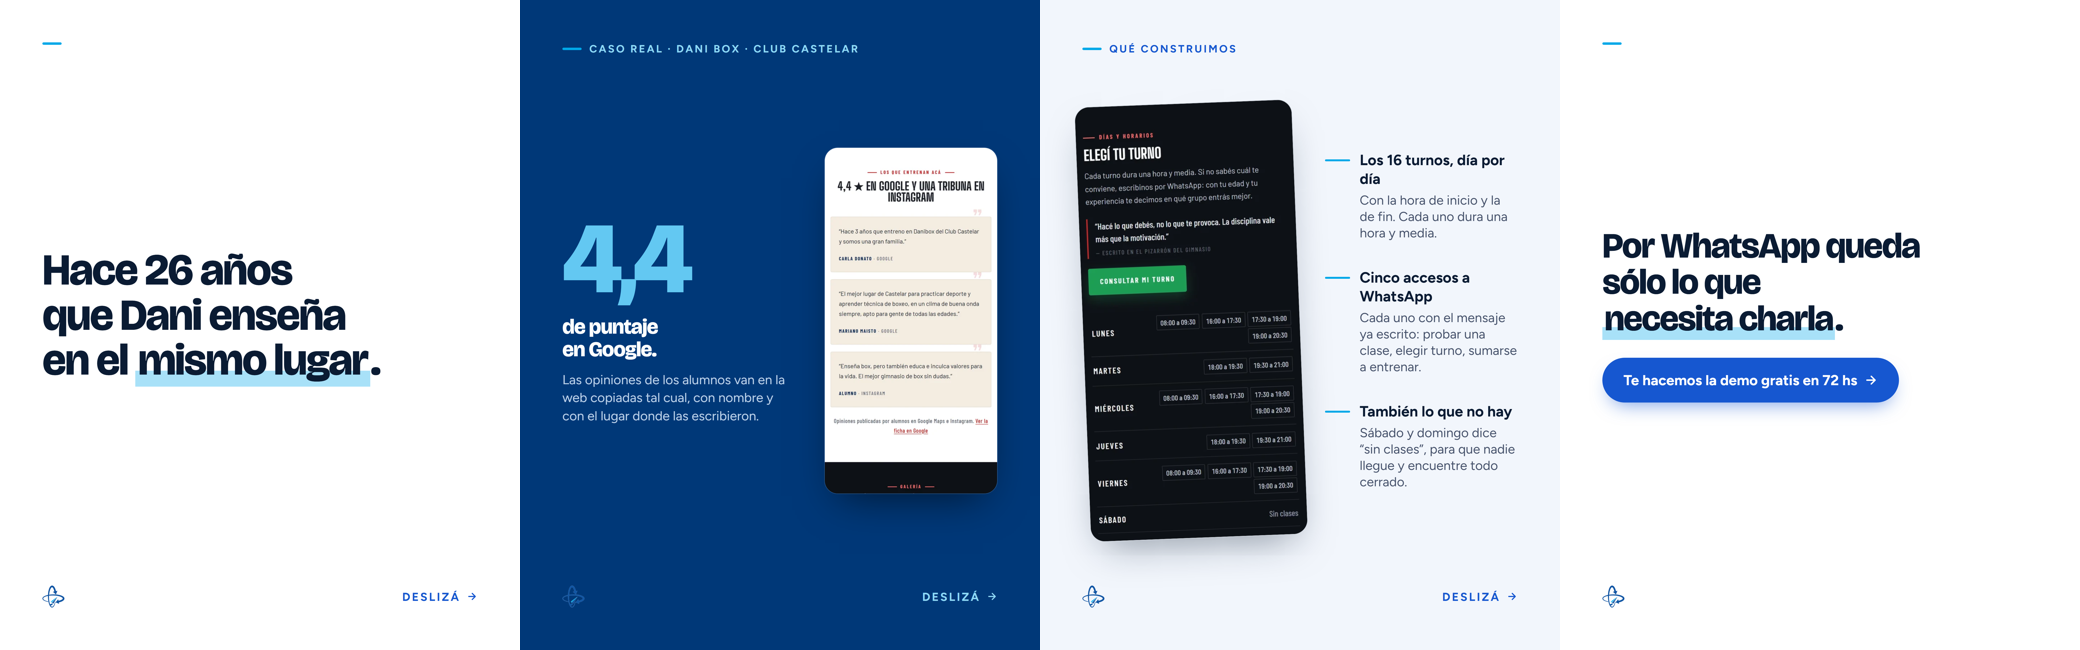
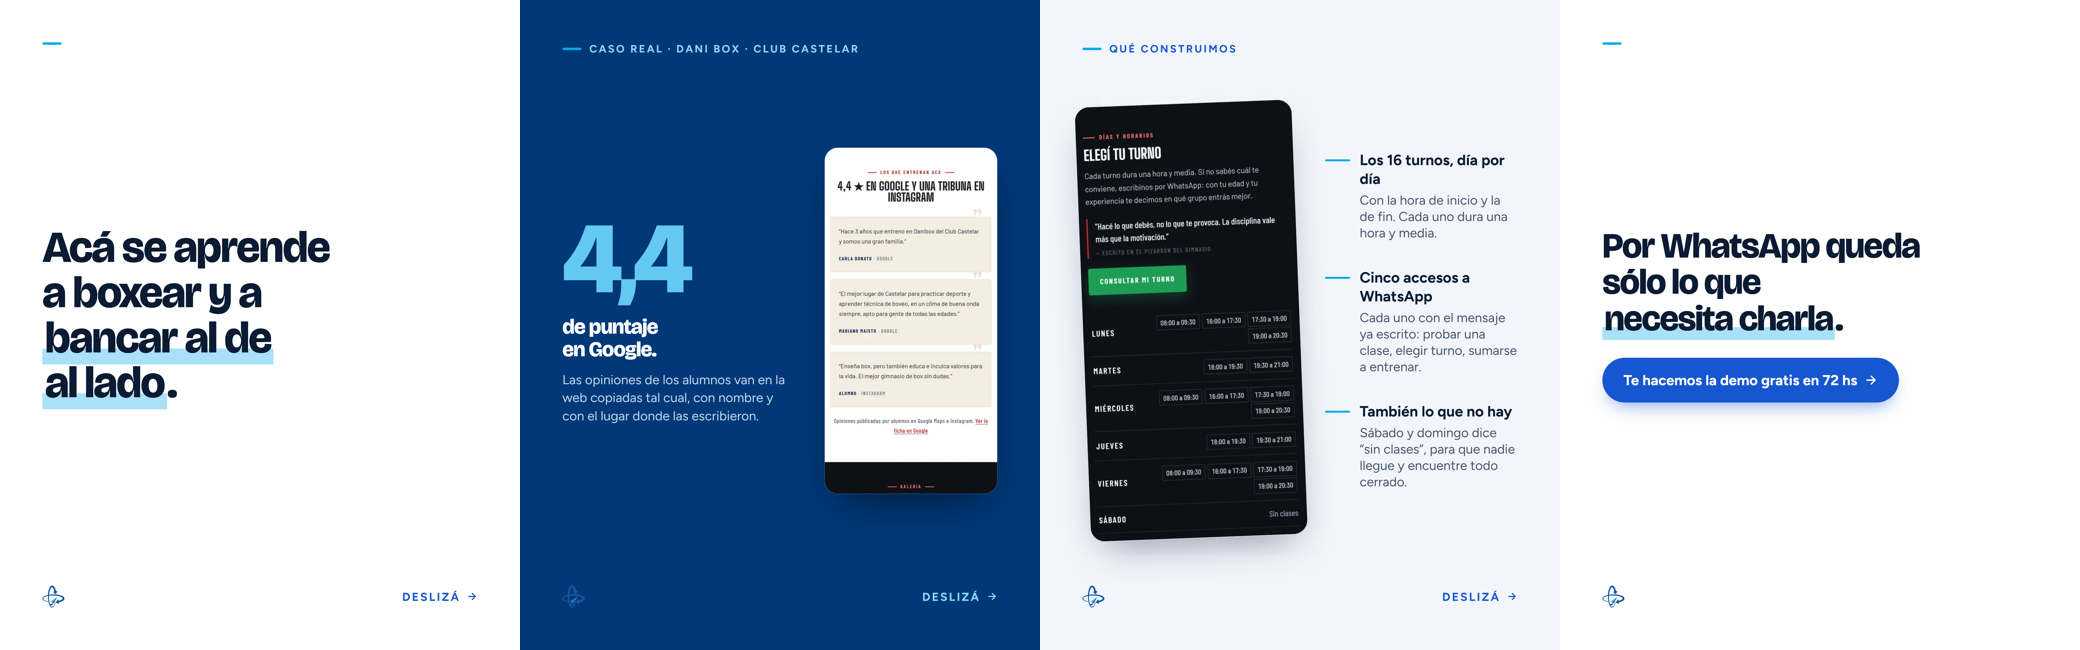
Hook: el titular del hero de la web de Dani BOX
"Aca se aprende a boxear y a bancar al de al lado". Los anos vuelven a
25, como dice el sitio, hasta que Dani confirme.

Changed region(s): [[0.0, 0.3385, 0.1875, 0.6462]]

diff --git a/contenido/carruseles/04-danibox/index.html b/contenido/carruseles/04-danibox/index.html
@@ -127,7 +127,7 @@ ol.pasos .pa{font-weight:400;color:var(--ink-2);display:block;font-size:30px;mar
 }
 </style><section class="slide ">
   <div class="eyebrow"><i class="dash"></i></div>
-  <div class="body-zone"><h1 class="lg">Hace 26 años<br>que Dani enseña<br>en el <span class="mark">mismo lugar</span>.</h1></div>
+  <div class="body-zone"><h1 class="lg">Acá se aprende<br>a boxear y a<br><span class="mark">bancar al de<br>al lado</span>.</h1></div>
   <div class="foot">
[1 lines of base64/hex data omitted]
     <div class="swipe">Deslizá <svg class="arw" viewBox="0 0 24 24" fill="none" stroke="currentColor" stroke-width="2.6" stroke-linecap="round" stroke-linejoin="round"><path d="M4 12h14M12 5l7 7-7 7"/></svg></div>

diff --git a/contenido/carruseles/04-danibox/make.py b/contenido/carruseles/04-danibox/make.py
@@ -8,8 +8,8 @@ etiqueta, y el pie queda minimo: asi los edito Mateo a mano en Canva.
 Verificado en dani-box.vercel.app el 20/09/2026: 16 turnos por semana
 (4 los lunes, miercoles y viernes; 2 los martes y jueves; sabado y domingo sin
 clases), cada turno de una hora y media, y 5 accesos a WhatsApp, cada uno con
-su mensaje ya escrito. Los 26 anos los confirmo Mateo: la web todavia
-dice 25.
+su mensaje ya escrito. El hook es el titular del hero de la web. Los anos quedan en 25,
+como dice el sitio, hasta que Dani confirme si son 26.
 """
 import pathlib, sys
 sys.path.insert(0, str(pathlib.Path(__file__).resolve().parents[2]))
@@ -22,7 +22,7 @@ OPIN = img('trabajos/danibox-castelar-opiniones-celular.webp', 'image/webp')
 
 SLIDES = [
     ('', '',
-     h('Hace 26 años<br>que Dani enseña<br>en el <span class="mark">mismo lugar</span>.', 'lg')),
+     h('Acá se aprende<br>a boxear y a<br><span class="mark">bancar al de<br>al lado</span>.', 'lg')),
 
     ('navy', 'Caso real · Dani BOX · Club Castelar',
      split(dato('4,4', 'de puntaje<br>en Google.',
